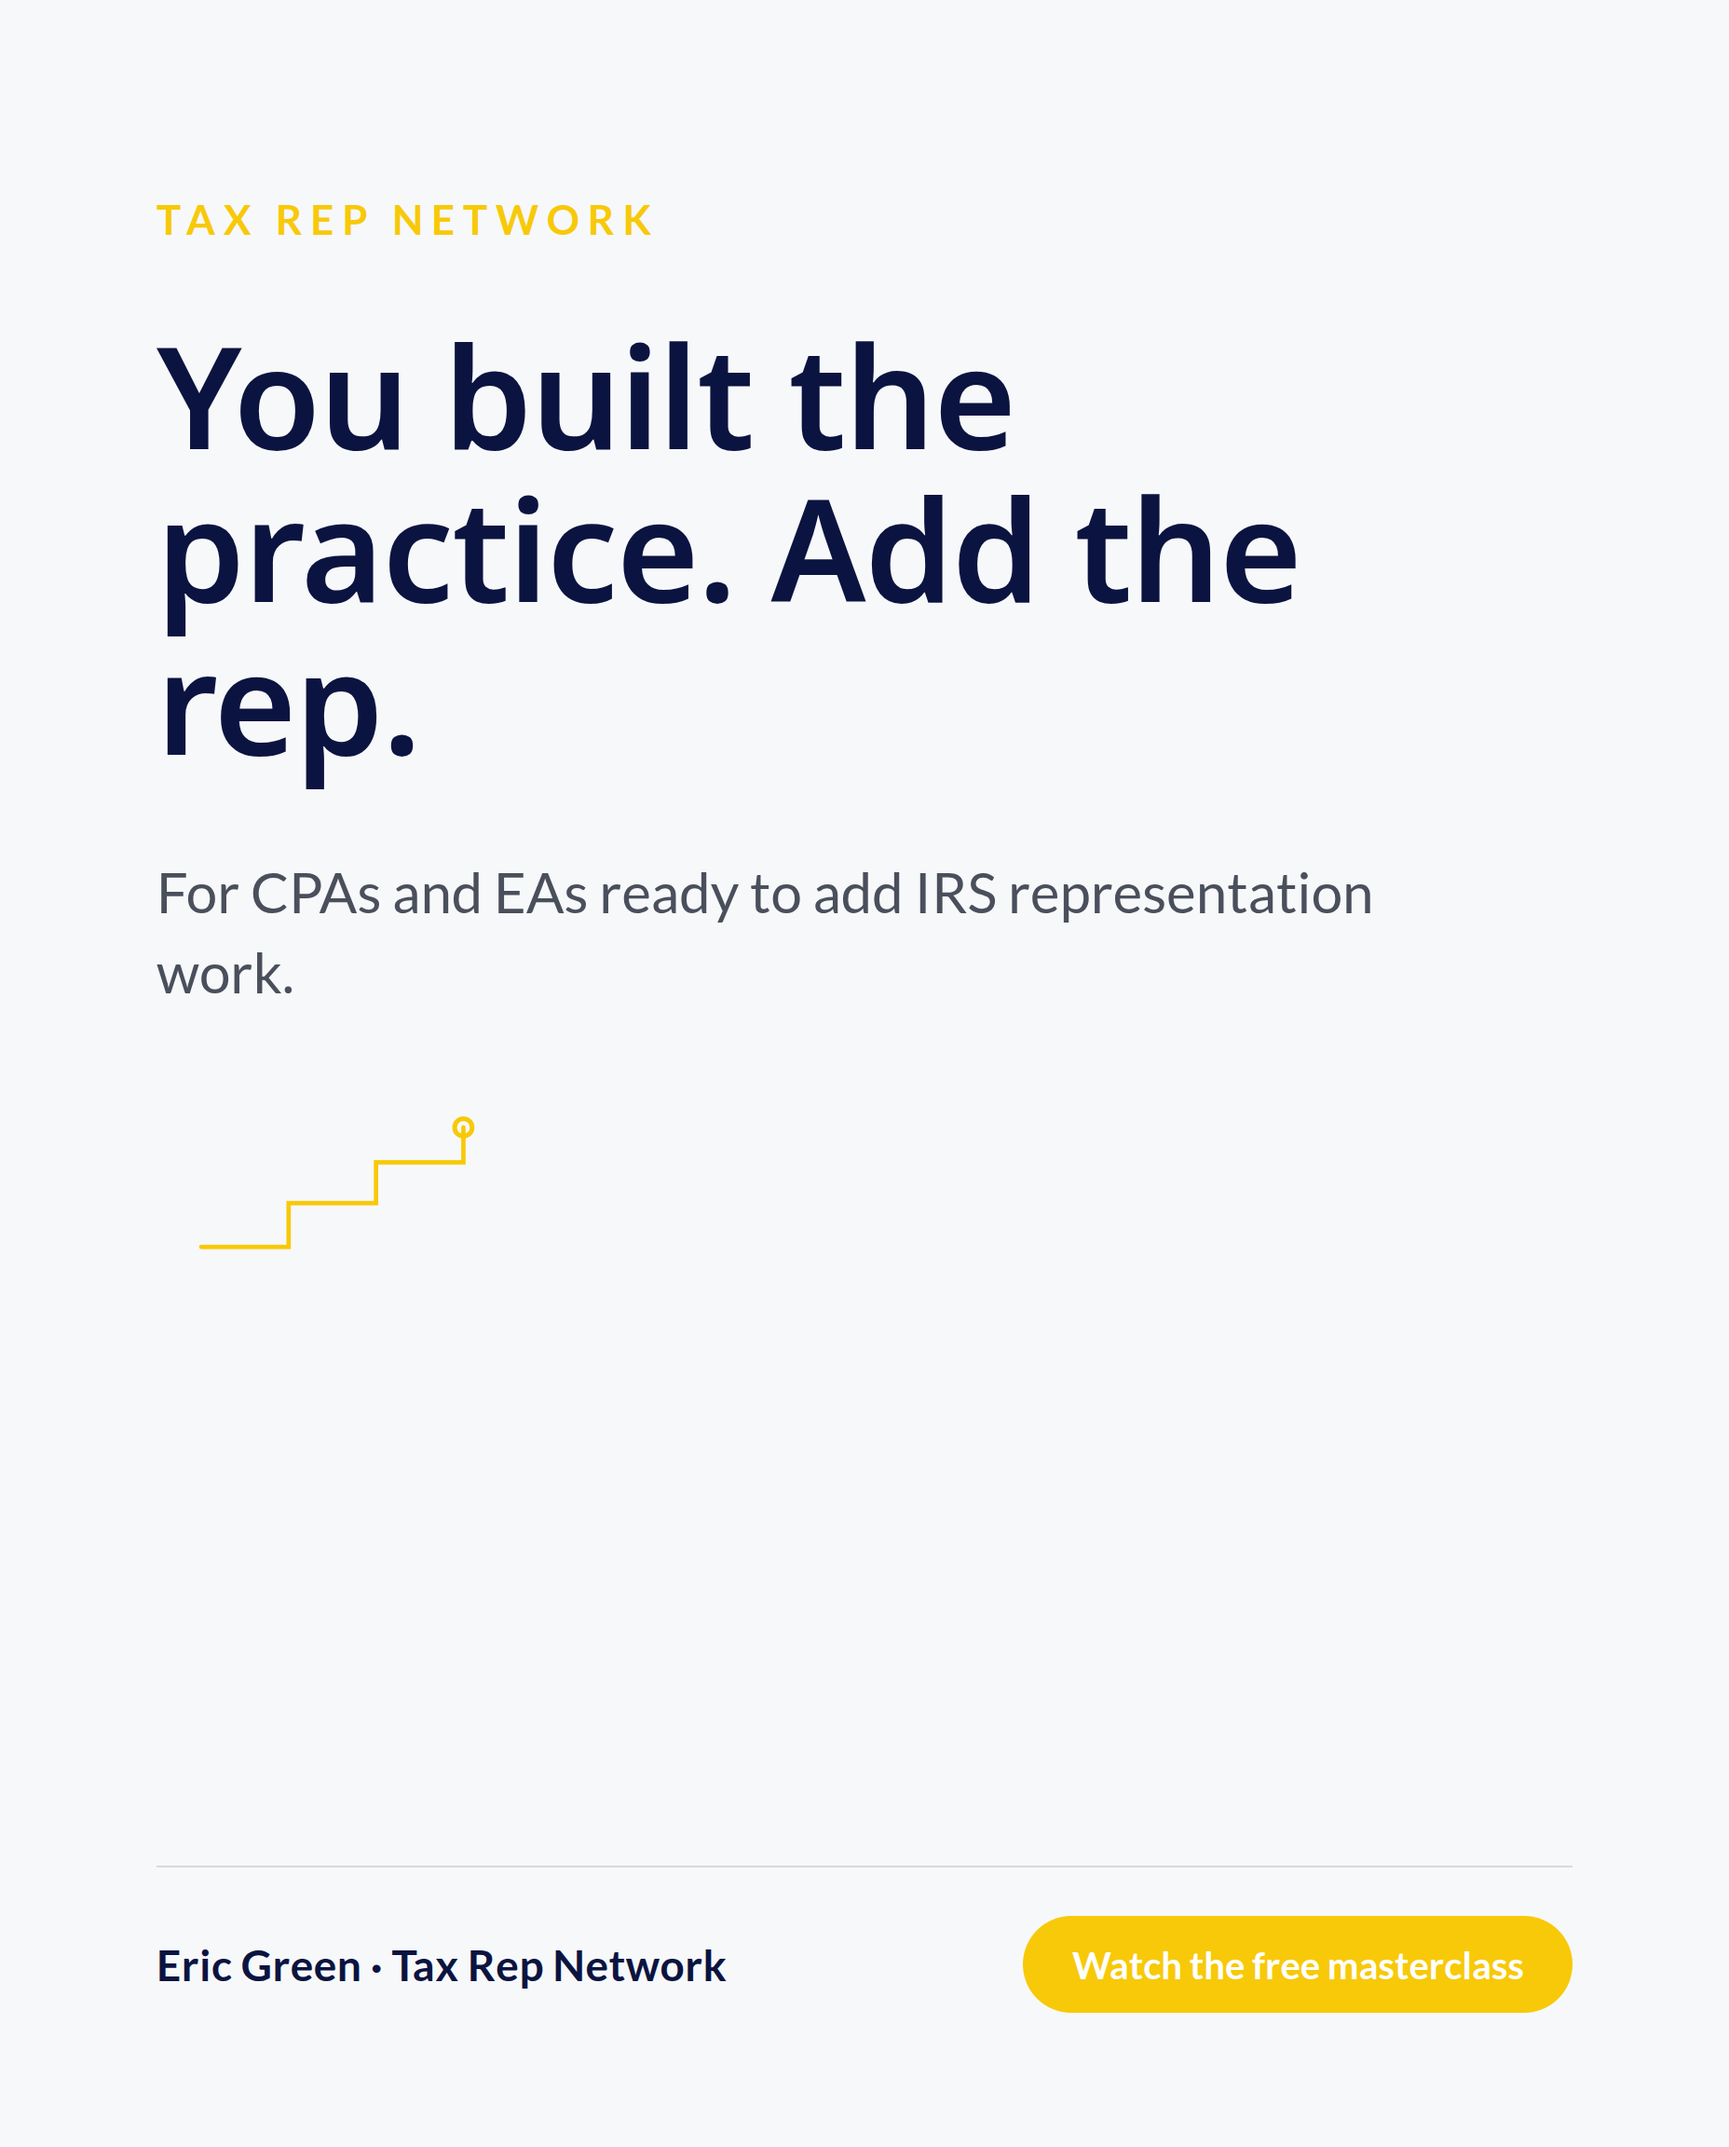
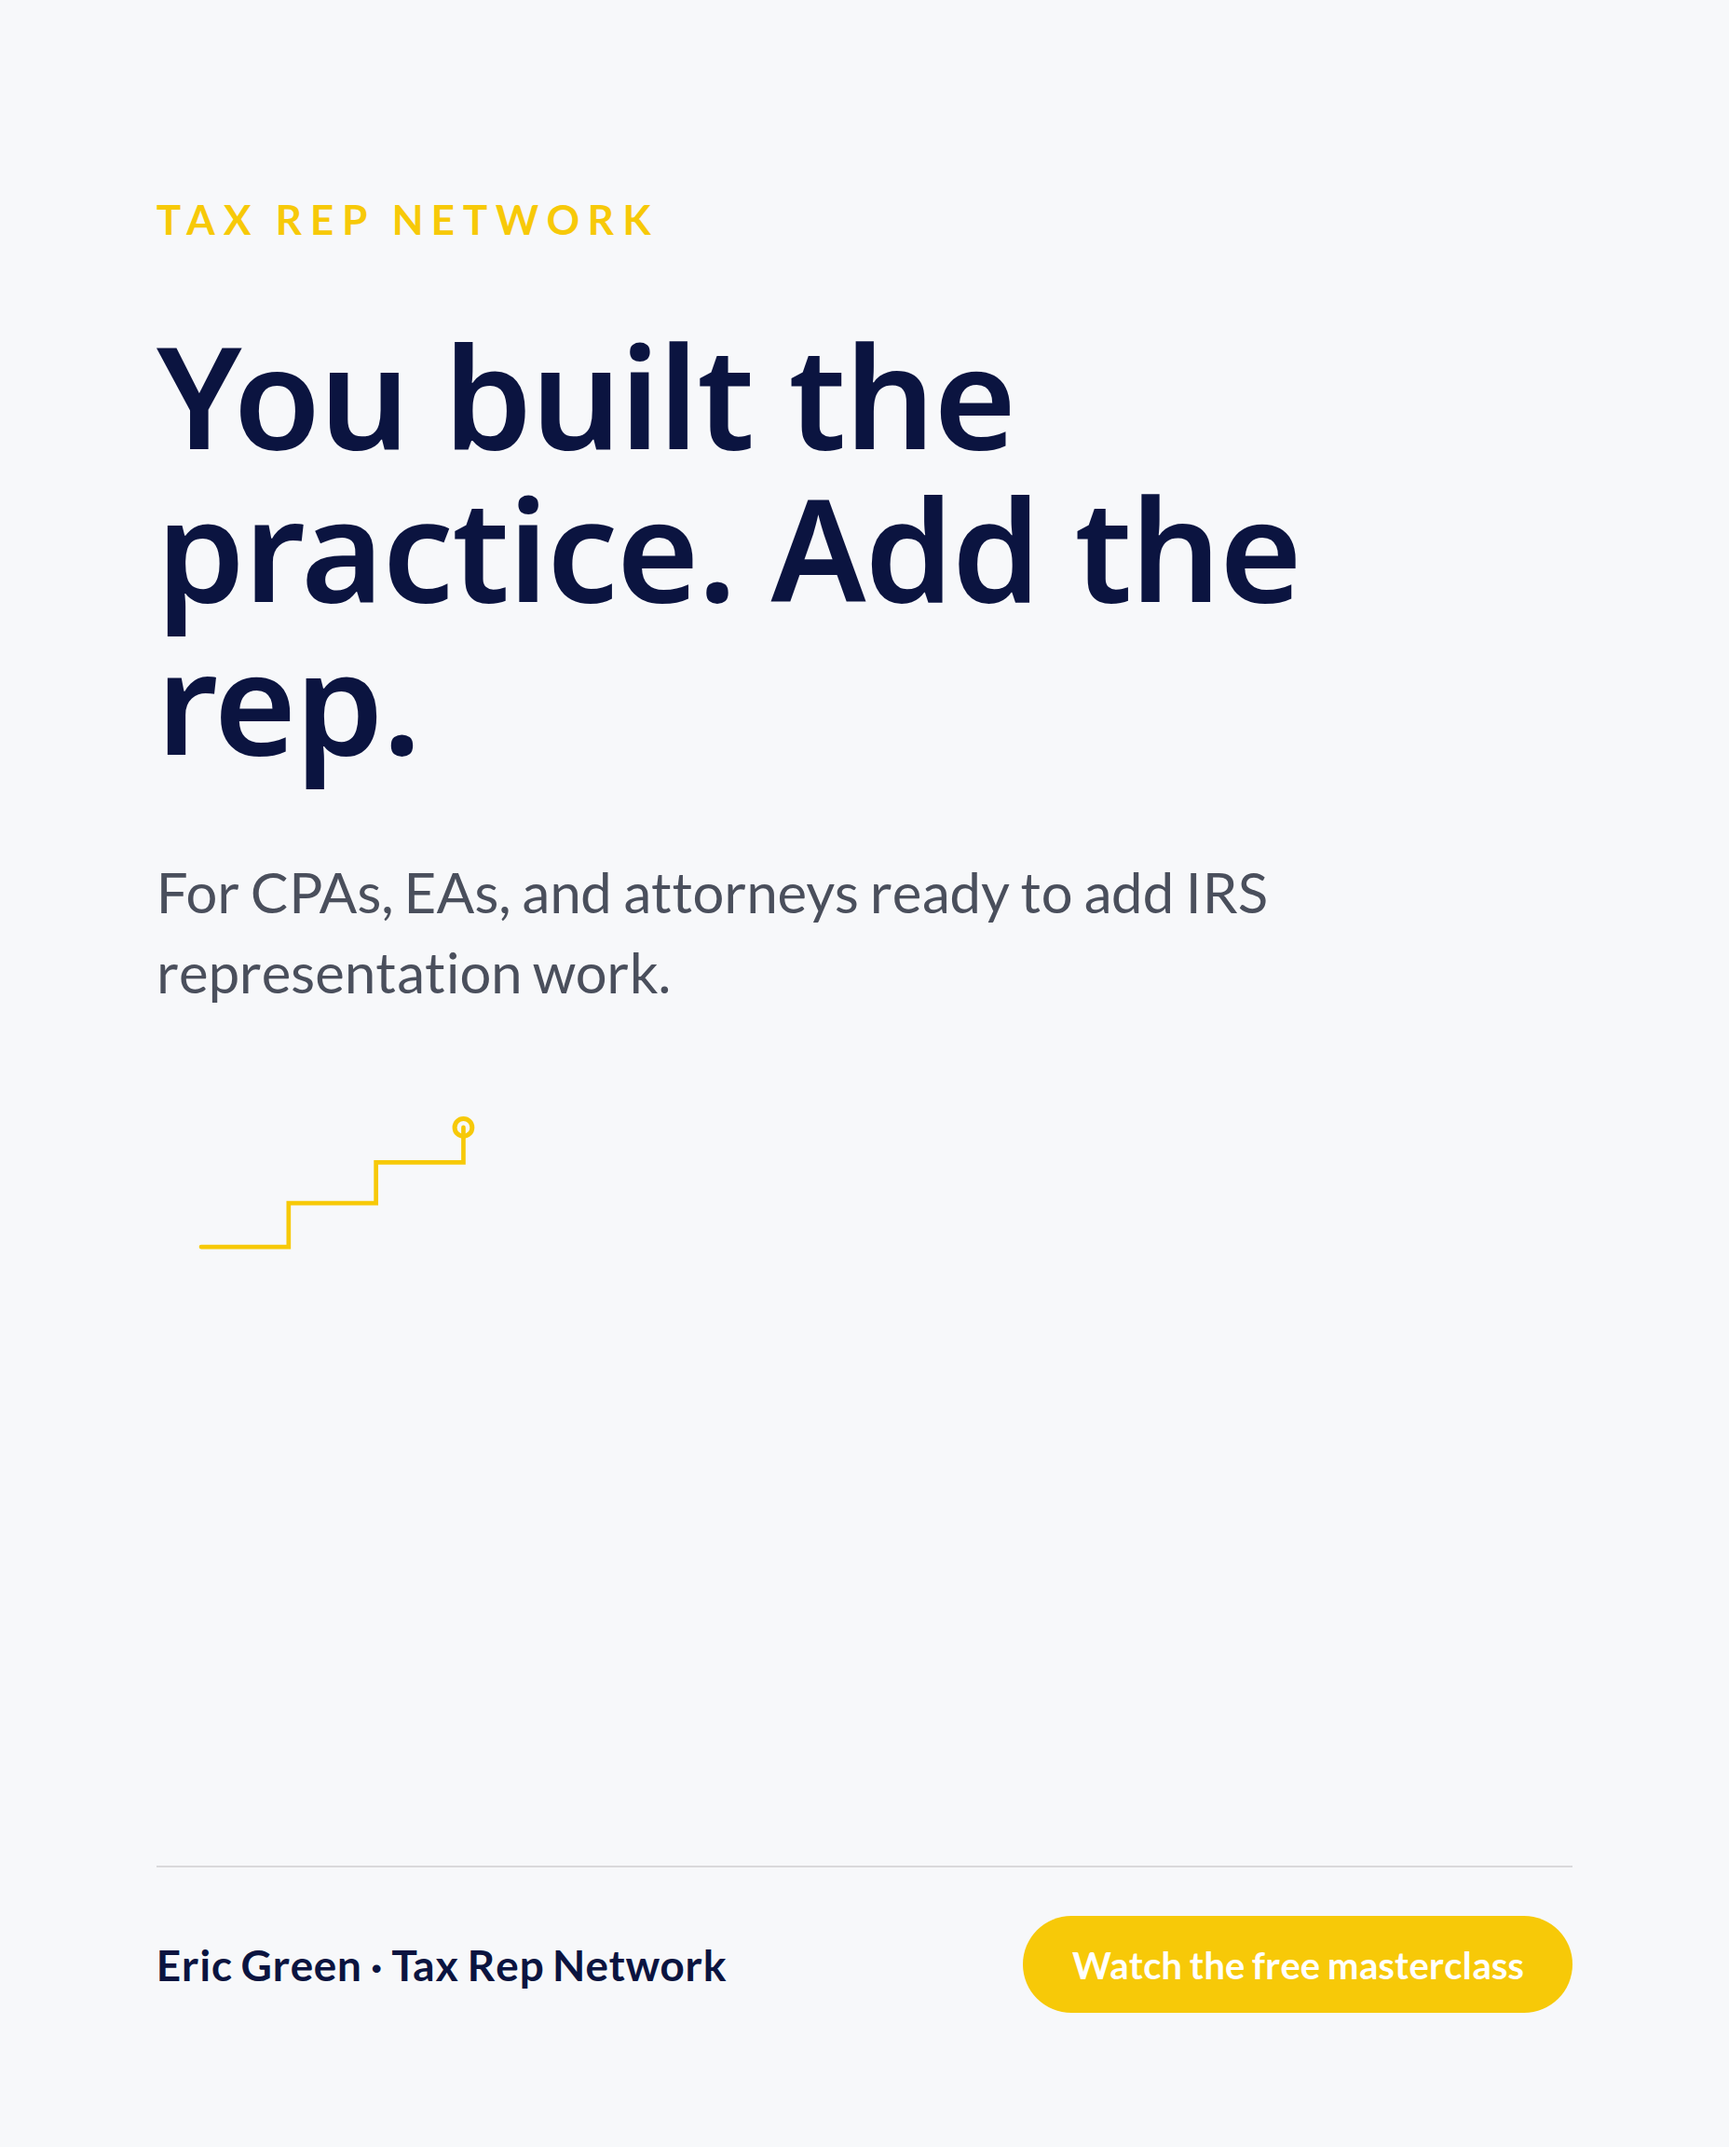
showcase: eric-green

Changed region(s): [[0.0938, 0.4062, 0.7812, 0.4688]]

diff --git a/eric-green/index.html b/eric-green/index.html
@@ -70,7 +70,7 @@
   </div>
 
   <h1>Adding IRS Representation to Your Practice</h1>
-  <p class="framing">Here's the deck I mentioned in my email, along with the numbers and the auction data that didn't fit in the message. You already built the hard part: the CTRC credential, the OIC Analyzer and case-pricing tools, the Tax Rep Network podcast at 180 plus episodes, and the Platinum Marketing Mastermind behind it all. <strong>What you don't have is a system to bring in CPAs and EAs who have never heard of you and convert them into Tax Rep Network members. This is that system.</strong></p>
+  <p class="framing">Here's the deck I mentioned in my email, along with the numbers and the auction data that didn't fit in the message. You already built the hard part: the CTRC credential, the OIC Analyzer and case-pricing tools, the Tax Rep Network podcast at 180 plus episodes, and the Platinum Marketing Mastermind behind it all. <strong>What you don't have is a system to bring in CPAs, EAs, and attorneys who have never heard of you and convert them into Tax Rep Network members. This is that system.</strong></p>
 
   <div class="section">
     <div class="section-label">The masterclass, already built</div>
@@ -93,7 +93,7 @@
   <div class="section">
     <div class="section-label">What the paid engine could produce</div>
     <h2>The numbers</h2>
-    <p>Estimates from professional-education businesses running paid traffic into a masterclass, scoped to a CPA/EA audience and anchored to your published $399/mo Platinum Marketing Mastermind price.</p>
+    <p>Estimates from professional-education businesses running paid traffic into a masterclass, scoped to a CPA, EA, and attorney audience and anchored to your published $399/mo Platinum Marketing Mastermind price.</p>
     <table>
       <thead>
         <tr><th>Metric</th><th>Conservative</th><th>Moderate</th></tr>
@@ -101,7 +101,7 @@
       <tbody>
         <tr><td>Monthly ad spend</td><td>$1,500</td><td>$1,500</td></tr>
         <tr><td>Cost per registration</td><td>$22</td><td>$15</td></tr>
-        <tr><td>CPA/EA registrations / month</td><td>68</td><td>100</td></tr>
+        <tr><td>CPA/EA/attorney registrations / month</td><td>68</td><td>100</td></tr>
         <tr><td>Show rate</td><td>30%</td><td>40%</td></tr>
         <tr><td>Masterclass viewers</td><td>20</td><td>40</td></tr>
         <tr><td>Platinum application rate</td><td>5%</td><td>8%</td></tr>
@@ -113,20 +113,19 @@
   </div>
 
   <div class="section">
-    <div class="section-label">Who is buying the CPA/EA's attention</div>
-    <h2>The auction, verified</h2>
-    <p>What the Meta auction around tax-resolution practice owners actually looks like, checked live on July 30.</p>
+    <div class="section-label">Who is buying this audience's attention</div>
+    <h2>The auction, checked live</h2>
+    <p>The two names actually checked in the Meta Ad Library on July 30, both by domain and by name.</p>
     <table>
       <thead>
         <tr><th>Name</th><th>Lane</th><th>Active Meta ads</th></tr>
       </thead>
       <tbody>
         <tr><td>Michael Rozbruch / Roz Strategies</td><td>Same lane: coaching CPAs, EAs, attorneys on tax-resolution practice growth</td><td class="running">9 active, verified 2026-07-30</td></tr>
-        <tr><td>DFY marketing agencies for tax/accounting firms (TaxProMarketer, Timmermann Group, Just Digital)</td><td>Sell marketing services directly to this same firm-owner audience</td><td class="not-running">Selling into the lane, not checked for ad counts here</td></tr>
         <tr class="you"><td>Eric Green / Tax Rep Network</td><td>Practice-growth coaching for tax-resolution firm owners</td><td class="not-running">No ads found, domain search, 2026-07-30</td></tr>
       </tbody>
     </table>
-    <p class="fn">Rozbruch teaches the identical audience, the identical service line, and is buying that attention right now. A dense field of agencies sells marketing services to the same firm owners through other channels, which proves they pay for practice growth, yet you show no ads found by domain search. That lane is wide open for you, and the one piece missing is paid traffic into the masterclass above.</p>
+    <p class="fn">Rozbruch teaches the same audience from the CPA side and is buying that attention right now, so the channel clearly works for it. The version nobody is running is yours: the attorney-credentialed pitch, built on cases actually argued and negotiated, not analyzed from the accounting side. That specific angle has zero advertisers today, and the one piece missing is paid traffic into the masterclass above.</p>
   </div>
 
   <div class="section calendly-section">
